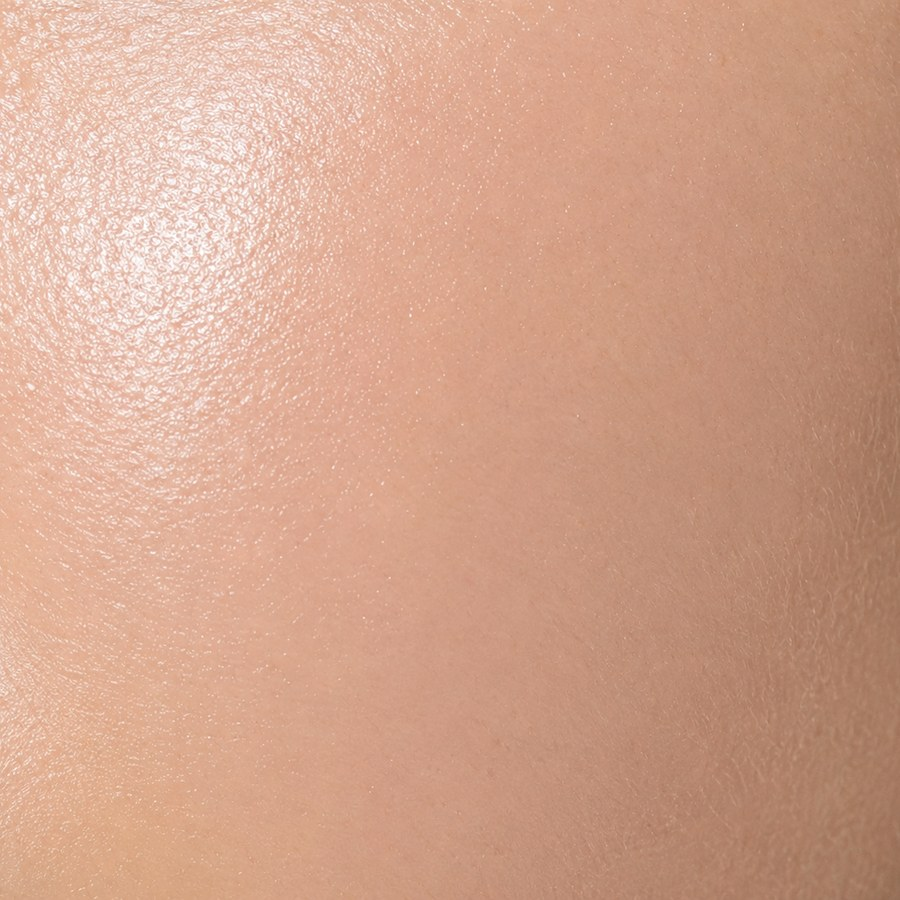
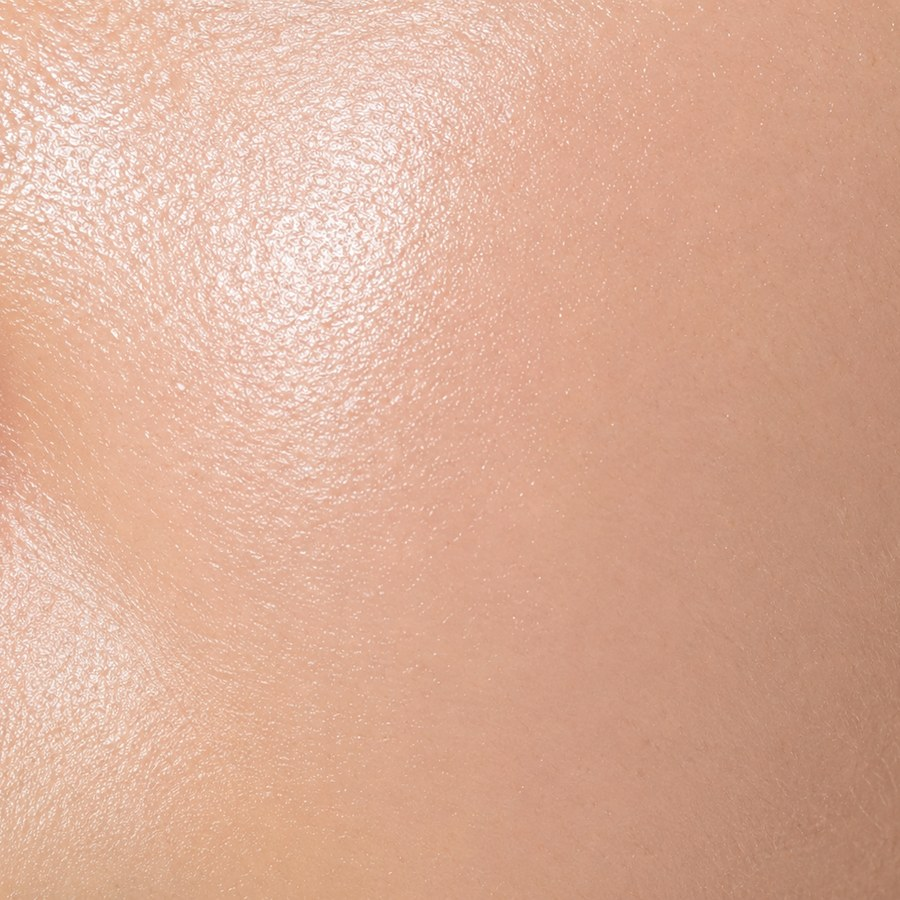
Rebuild the 14-day screen as a schedule, not a claim
The screen stated a start and an end and skipped the part people are
actually anxious about — the middle, where nothing looks like it is
working. It now names what happens on which days.

Three things the previous version got wrong:

- It invented four numbers. Redness -40%, clarity +60%, texture +35%,
  hydration +45%, laid out as confident tiles. Nothing measured any of
  them; the scan runs three screens later. Every other screen in this
  flow refuses to put a figure on an outcome it has not observed, and
  unsubstantiated efficacy percentages in a skincare funnel are the
  exact claim a store review asks you to back up. Replaced by the one
  thing we can describe honestly: the order events happen in.
- It argued with itself. The headline said fourteen days; the card said
  "improvement in 2-3 weeks" — up to twenty one — inside the same block.
- It said nothing about this user, after twenty screens of mirroring
  their answers back. The headline now opens on the duration they gave.

The fortnight ends on the second scan rather than on a promise about
their face: a measurement next to today's is the one outcome we can
actually guarantee. Naming days 1-3 as the stretch where nothing shows
is the most useful sentence on the page — it is where people quit.

Also:
- Swapped the stage emoji for ones with default emoji presentation. The
  draft used U+1F324, which defaults to text presentation and rendered
  as a hollow glyph box without a U+FE0F selector.
[…]

diff --git a/Verite/Onboarding/Ramp/RampSkinProgressScreen.swift b/Verite/Onboarding/Ramp/RampSkinProgressScreen.swift
@@ -1,17 +1,49 @@
 import SwiftUI
 
 // ============================================================
-// MARK: — Skin Progress (14-day transformation preview)
+// MARK: — The fourteen days, as a schedule rather than a claim
 // ============================================================
 
-/// Shows the user what 14 days with SkinFix looks like: a visual
-/// transformation with emoji-accented metrics.
+/// What the next two weeks actually contain, staged day by day.
+///
+/// THREE THINGS THE FIRST DRAFT GOT WRONG, kept here because each one is easy
+/// to reintroduce and expensive to ship.
+///
+///  1. IT INVENTED FOUR NUMBERS. Redness −40%, clarity +60%, texture +35%,
+///     hydration +45%, laid out as four confident tiles. Nothing measured any
+///     of them — the scan has not run yet; it runs three screens after this
+///     one. Every other screen in this flow refuses to put a figure on an
+///     outcome it has not observed (see `RampSawtoothScreen`'s note on why
+///     the rising stroke there carries no endpoint label), and four fabricated
+///     efficacy percentages in a skincare funnel are also the exact claim a
+///     store review or an advertising regulator asks you to substantiate.
+///     They are gone. What replaced them is the one thing we can honestly
+///     describe: the ORDER events happen in.
+///  2. IT ARGUED WITH ITSELF. The headline said fourteen days; the sentence
+///     under the photographs said "improvement in 2–3 weeks" — up to twenty
+///     one. The screen promised a fortnight and then quietly took it back,
+///     inside the same card.
+///  3. IT SAID NOTHING ABOUT THIS USER. Twenty screens of mirroring their own
+///     answers back, and then a page identical for everybody. The headline now
+///     opens on the duration they gave us, because "years of this, now
+///     fourteen days" is an argument and "14 days with SkinFix" is a banner.
+///
+/// WHY A SCHEDULE IS THE STRONGER SCREEN. A before and an after state two
+/// things and skip the part the reader is actually anxious about: the middle,
+/// where nothing appears to be working. Naming days 1–3 as the stretch where
+/// nothing shows is worth more than any percentage — it is the week most
+/// people quit in, and saying it out loud before they hit it is the single
+/// most useful sentence on the page. The fortnight then ends on the app's own
+/// mechanic rather than on a promise about their face: day fourteen is the
+/// second scan, and the payoff is that they can finally compare.
 struct RampSkinProgressScreen: View {
     let answers: RampQuizAnswers
     let onAdvance: () -> Void
 
     @Environment(\.accessibilityReduceMotion) private var reduceMotion
-    @State private var metricsVisible = false
+
+    @State private var cardIn = false
+    @State private var stepsIn = 0
 
     var body: some View {
         GeometryReader { proxy in
@@ -19,33 +51,41 @@ struct RampSkinProgressScreen: View {
                 VStack(alignment: .leading, spacing: 0) {
                     Spacer(minLength: RampStage.headerClearance)
 
-                    // Headline
-                    Text("14 days with SkinFix")
+                    Text(LocalizedStringKey(headline))
                         .font(RampStage.serif(26, weight: .semibold))
                         .foregroundStyle(RampStage.ink)
                         .lineSpacing(2)
                         .fixedSize(horizontal: false, vertical: true)
                         .padding(.horizontal, VSpace.lg)
 
-                    // Subtext
-                    Text("Here's what real results look like.")
+                    Text("What actually happens, and when.")
                         .font(VType.body)
                         .foregroundStyle(RampStage.textSecondary)
                         .fixedSize(horizontal: false, vertical: true)
                         .padding(.horizontal, VSpace.lg)
                         .padding(.top, VSpace.xs)
 
-                    // Visual transformation
                     transformationCard
                         .padding(.horizontal, VSpace.lg)
                         .padding(.top, VSpace.lg)
+                        .opacity(cardIn ? 1 : 0)
+                        .offset(y: cardIn ? 0 : 10)
 
-                    // Metrics
-                    metricsGrid
+                    timeline
                         .padding(.horizontal, VSpace.lg)
                         .padding(.top, VSpace.lg)
 
-                    // CTA
+                    // The hedge sits here rather than inside the card, where an
+                    // earlier draft put a two-line version that contradicted
+                    // the headline. One line, last, in the smallest type on the
+                    // screen: present, honest, not competing with the schedule.
+                    Text("A typical fortnight. Yours depends on where you start.")
+                        .font(VType.micro)
+                        .foregroundStyle(RampStage.textTertiary)
+                        .fixedSize(horizontal: false, vertical: true)
+                        .padding(.horizontal, VSpace.lg)
+                        .padding(.top, VSpace.md)
+
                     Spacer(minLength: VSpace.lg)
                     RampPrimaryButton(title: "Continue") { onAdvance() }
                         .padding(.horizontal, VSpace.lg)
@@ -58,65 +98,39 @@ struct RampSkinProgressScreen: View {
         .task { await choreograph() }
     }
 
-    /// The two states, as photographs rather than icons.
-    ///
-    /// Icons were the first draft and they argued nothing: a sparkle beside a
-    /// tick is a claim written in symbols, and the reader has to take it on
-    /// trust. Real macro skin — inflamed on the left, calm on the right — is
-    /// the same claim made in the only evidence that counts on a screen about
-    /// skin. Circles rather than squares so the crop reads as a sample of skin
-    /// rather than a before/after ad, and big enough that the texture is
-    /// legible at arm's length; at 80pt the lesions were mush.
+    // MARK: The two states
+
+    /// Photographs rather than icons: a sparkle beside a tick is a claim
+    /// written in symbols, and on a screen about skin the only evidence that
+    /// counts is skin. Circles, so the crop reads as a sample rather than as a
+    /// before/after advert, and large enough that the texture survives — at
+    /// 80pt the lesions blurred into a pink wash and the pair read as two
+    /// colour swatches.
     private var transformationCard: some View {
-        VStack(spacing: 0) {
-            HStack(spacing: VSpace.md) {
-                progressState(photo: "ProgressBefore",
-                              label: "Before",
-                              ringed: false)
+        HStack(spacing: VSpace.md) {
+            progressState(photo: "ProgressBefore", label: "Today", ringed: false)
 
-                Image(systemName: "arrow.right")
-                    .font(.system(size: 18, weight: .semibold))
-                    .foregroundStyle(RampStage.accentEdge)
-                    // The labels sit under the circles, so centring the arrow
-                    // on the whole stack would float it low. Nudged up onto
-                    // the circles' own centre line.
-                    .padding(.bottom, 22)
+            Image(systemName: "arrow.right")
+                .font(.system(size: 18, weight: .semibold))
+                .foregroundStyle(RampStage.accentEdge)
+                // The captions hang below the circles, so centring the arrow
+                // on the whole stack would drop it off their axis.
+                .padding(.bottom, 22)
 
-                progressState(photo: "ProgressAfter",
-                              label: "After",
-                              ringed: true)
-            }
-            .frame(maxWidth: .infinity)
-            .padding(.top, VSpace.xs)
-
-            Divider()
-                .padding(.vertical, VSpace.md)
-
-            // Key message
-            VStack(alignment: .center, spacing: VSpace.xs) {
-                Text("Most people see improvement in 2–3 weeks.")
-                    .font(VType.body)
-                    .foregroundStyle(RampStage.ink)
-                    .multilineTextAlignment(.center)
-                    .lineLimit(nil)
-
-                Text("Some by day five.")
-                    .font(VType.bodyLarge.weight(.semibold))
-                    .foregroundStyle(RampStage.accentEdge)
-            }
-            .frame(maxWidth: .infinity, alignment: .center)
-            .padding(.bottom, VSpace.sm)
+            progressState(photo: "ProgressAfter", label: "Day 14", ringed: true)
         }
-        .padding(VSpace.md)
+        .frame(maxWidth: .infinity)
+        .padding(.vertical, VSpace.md)
+        .padding(.horizontal, VSpace.sm)
         .background(RampStage.accentSoft)
         .cornerRadius(16)
         .accessibilityElement()
-        .accessibilityLabel("Before and after: inflamed skin on the left, calm skin on the right.")
+        .accessibilityLabel("Skin today, and after fourteen days.")
     }
 
-    /// One circle plus its caption. `ringed` marks the outcome side with an
-    /// accent ring — the only styling difference between the two, so the eye
-    /// knows which way the arrow points without reading the labels.
+    /// One circle and its caption. `ringed` marks the far end in accent — the
+    /// only difference between the two, so the direction reads before the
+    /// labels do.
     private func progressState(photo: String, label: String, ringed: Bool) -> some View {
         VStack(spacing: VSpace.sm) {
             skinCircle(photo)
@@ -131,12 +145,12 @@ struct RampSkinProgressScreen: View {
 
             Text(LocalizedStringKey(label))
                 .font(VType.caption)
-                .foregroundStyle(RampStage.textTertiary)
+                .foregroundStyle(ringed ? RampStage.accentDeep : RampStage.textTertiary)
         }
     }
 
-    /// The photo if it shipped, a quiet gradient if it did not — the screen
-    /// must never show tofu or an empty ring just because an asset is missing.
+    /// The photo if it shipped, a quiet wash if it did not — a missing asset
+    /// must never leave an empty ring on screen.
     @ViewBuilder
     private func skinCircle(_ name: String) -> some View {
         #if canImport(UIKit)
@@ -152,59 +166,136 @@ struct RampSkinProgressScreen: View {
         #endif
     }
 
-    /// 124, not 80. The photographs are macro crops — at 80pt the individual
-    /// lesions blurred into a pink wash and the two circles read as two
-    /// swatches of colour rather than as two states of skin.
     private static let circleSize: CGFloat = 124
 
-    private var metricsGrid: some View {
-        VStack(spacing: RampStage.tileGap) {
-            HStack(spacing: RampStage.tileGap) {
-                metricCard(emoji: "🔴", label: "Redness", benefit: "↓ 40%")
-                metricCard(emoji: "✨", label: "Clarity", benefit: "↑ 60%")
-            }
-            .frame(maxWidth: .infinity)
+    // MARK: The schedule
 
-            HStack(spacing: RampStage.tileGap) {
-                metricCard(emoji: "🎯", label: "Texture", benefit: "↑ 35%")
-                metricCard(emoji: "💧", label: "Hydration", benefit: "↑ 45%")
-            }
-            .frame(maxWidth: .infinity)
-        }
-        .opacity(metricsVisible ? 1 : 0)
-        .offset(y: metricsVisible ? 0 : 8)
+    private struct Stage {
+        let emoji: String
+        let days: String
+        let lede: String
+        let rest: String
     }
 
-    private func metricCard(emoji: String, label: String, benefit: String) -> some View {
-        VStack(alignment: .leading, spacing: VSpace.xs) {
-            HStack(spacing: VSpace.xs) {
-                Text(emoji)
-                    .font(.system(size: 20))
-                Text(label)
-                    .font(VType.bodySmall.weight(.medium))
-                    .foregroundStyle(RampStage.textSecondary)
+    /// Four beats, and the first one is the reason the screen exists.
+    ///
+    /// Days 1–3 is the stretch where a routine looks like it is failing, and
+    /// it is where people abandon one. Promising nothing there — saying, in
+    /// advance, that nothing will show and that this is the routine working
+    /// rather than not — is worth more than any figure we could print.
+    ///
+    /// The fortnight then lands on the second scan, not on a face. That is the
+    /// one outcome we can actually guarantee: a measurement, next to today's.
+    /// Pick emoji that carry a default EMOJI presentation. The first draft used
+    /// 🌤 (U+1F324) for "redness settles", which defaults to TEXT presentation
+    /// and needs a U+FE0F selector — without one it fell back to a hollow
+    /// glyph box. Anything in this list must render in colour unaided, and
+    /// must mean its row rather than merely decorate it.
+    private static let stages: [Stage] = [
+        Stage(emoji: "💧", days: "Days 1–3",
+              lede: "Barrier first.",
+              rest: "Nothing shows yet — that part is normal."),
+        Stage(emoji: "📉", days: "Days 4–7",
+              lede: "Fewer new ones.",
+              rest: "Spots start arriving less often."),
+        Stage(emoji: "🧊", days: "Days 8–11",
+              lede: "Redness settles.",
+              rest: "What's already there gets quieter."),
+        Stage(emoji: "📸", days: "Day 14",
+              lede: "Scan two.",
+              rest: "Side by side with today — a number, not a feeling."),
+    ]
+
+    private var timeline: some View {
+        VStack(alignment: .leading, spacing: 0) {
+            ForEach(Array(Self.stages.enumerated()), id: \.offset) { index, stage in
+                stageRow(stage, isLast: index == Self.stages.count - 1)
+                    .opacity(index < stepsIn ? 1 : 0)
+                    .offset(x: index < stepsIn ? 0 : -8)
             }
-            Text(benefit)
-                .font(.system(size: 16, weight: .semibold, design: .rounded).monospacedDigit())
-                .foregroundStyle(RampStage.accentEdge)
         }
-        .frame(maxWidth: .infinity, alignment: .leading)
-        .padding(VSpace.md)
-        .background(RampStage.hair.opacity(0.04))
-        .cornerRadius(12)
     }
 
+    private func stageRow(_ stage: Stage, isLast: Bool) -> some View {
+        HStack(alignment: .top, spacing: VSpace.md) {
+            // Marker column. The rail is drawn per row rather than as one line
+            // behind the stack, so it stretches with whatever the text beside
+            // it wraps to and cannot fall out of step with it.
+            VStack(spacing: 0) {
+                Text(stage.emoji)
+                    .font(.system(size: 15))
+                    .frame(width: Self.markerSize, height: Self.markerSize)
+                    .background(Circle().fill(RampStage.accentSoft))
+
+                if !isLast {
+                    Rectangle()
+                        .fill(RampStage.hair)
+                        .frame(width: 1.5)
+                        .frame(maxHeight: .infinity)
+                }
+            }
+            .fixedSize(horizontal: true, vertical: false)
+
+            VStack(alignment: .leading, spacing: 2) {
+                Text(LocalizedStringKey(stage.days))
+                    .font(VType.micro)
+                    .tracking(1.1)
+                    .textCase(.uppercase)
+                    .foregroundStyle(RampStage.accentDeep)
+
+                // Lede in semibold, remainder regular, as one wrapping
+                // paragraph — two `Text`s in a stack would break the line
+                // where the layout wants rather than where the sentence does.
+                (Text(LocalizedStringKey(stage.lede)).font(VType.bodyMedium.weight(.semibold))
+                 + Text(" ")
+                 + Text(LocalizedStringKey(stage.rest)).font(VType.body))
+                    .foregroundStyle(RampStage.ink)
+                    .fixedSize(horizontal: false, vertical: true)
+                    .lineSpacing(1)
+            }
+            .padding(.bottom, isLast ? 0 : VSpace.md)
+        }
+        .accessibilityElement(children: .combine)
+    }
+
+    private static let markerSize: CGFloat = 30
+
+    // MARK: Copy
+
+    /// Opens on the duration they gave us. "Years of this" earns the fourteen
+    /// days that follow it; a generic banner does not.
+    private var headline: String {
+        switch answers.acneDuration {
+        case .months:            return "Months of this.\nNow fourteen days."
+        case .aboutAYear:        return "A year of this.\nNow fourteen days."
+        case .fewYears:          return "Years of this.\nNow fourteen days."
+        case .asLongAsIRemember: return "All that time.\nNow fourteen days."
+        case nil:                return "The next\nfourteen days."
+        }
+    }
+
+    // MARK: Choreography
+
+    /// The card lands, then the schedule writes itself downward, one beat per
+    /// stage. Reading order and animation order are the same on purpose — the
+    /// point of the screen is the sequence, so it arrives as a sequence.
     private func choreograph() async {
         if reduceMotion {
-            metricsVisible = true
+            cardIn = true
+            stepsIn = Self.stages.count
             return
         }
 
-        try? await Task.sleep(for: .milliseconds(300))
+        try? await Task.sleep(for: .milliseconds(180))
         guard !Task.isCancelled else { return }
+        withAnimation(VMotion.gentle) { cardIn = true }
 
-        withAnimation(.easeOut(duration: 0.6)) {
-            metricsVisible = true
+        try? await Task.sleep(for: .milliseconds(260))
+        for _ in Self.stages.indices {
+            guard !Task.isCancelled else { return }
+            Haptics.fire(.tick)
+            withAnimation(VMotion.snappy) { stepsIn += 1 }
+            try? await Task.sleep(for: .milliseconds(190))
         }
     }
 }
